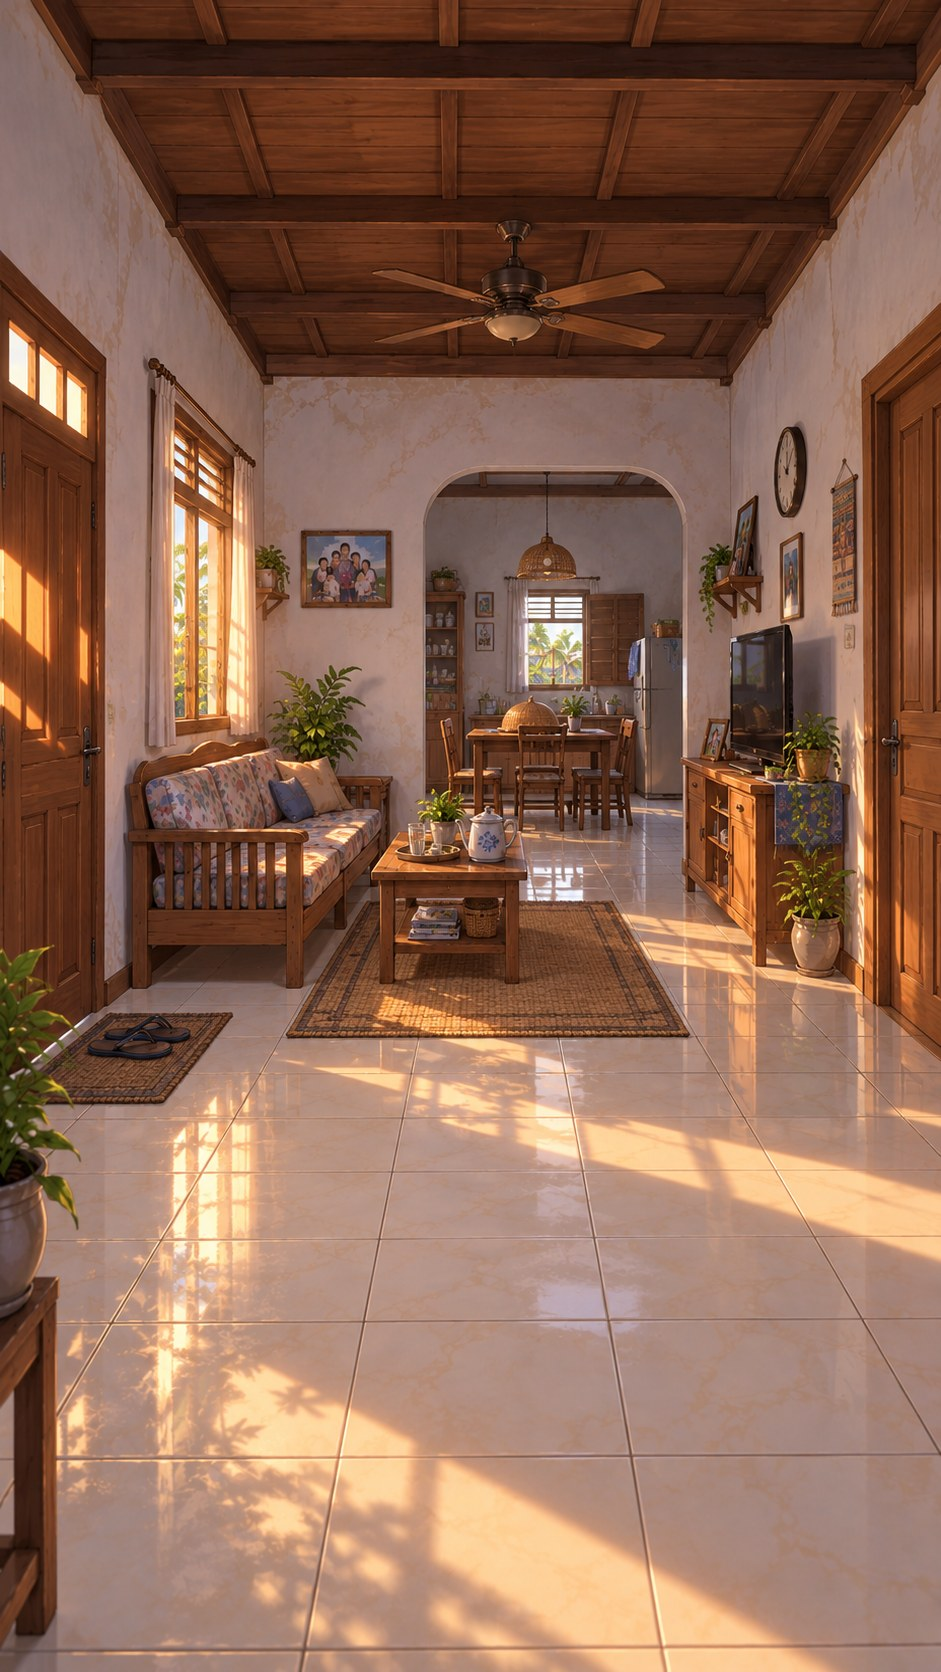
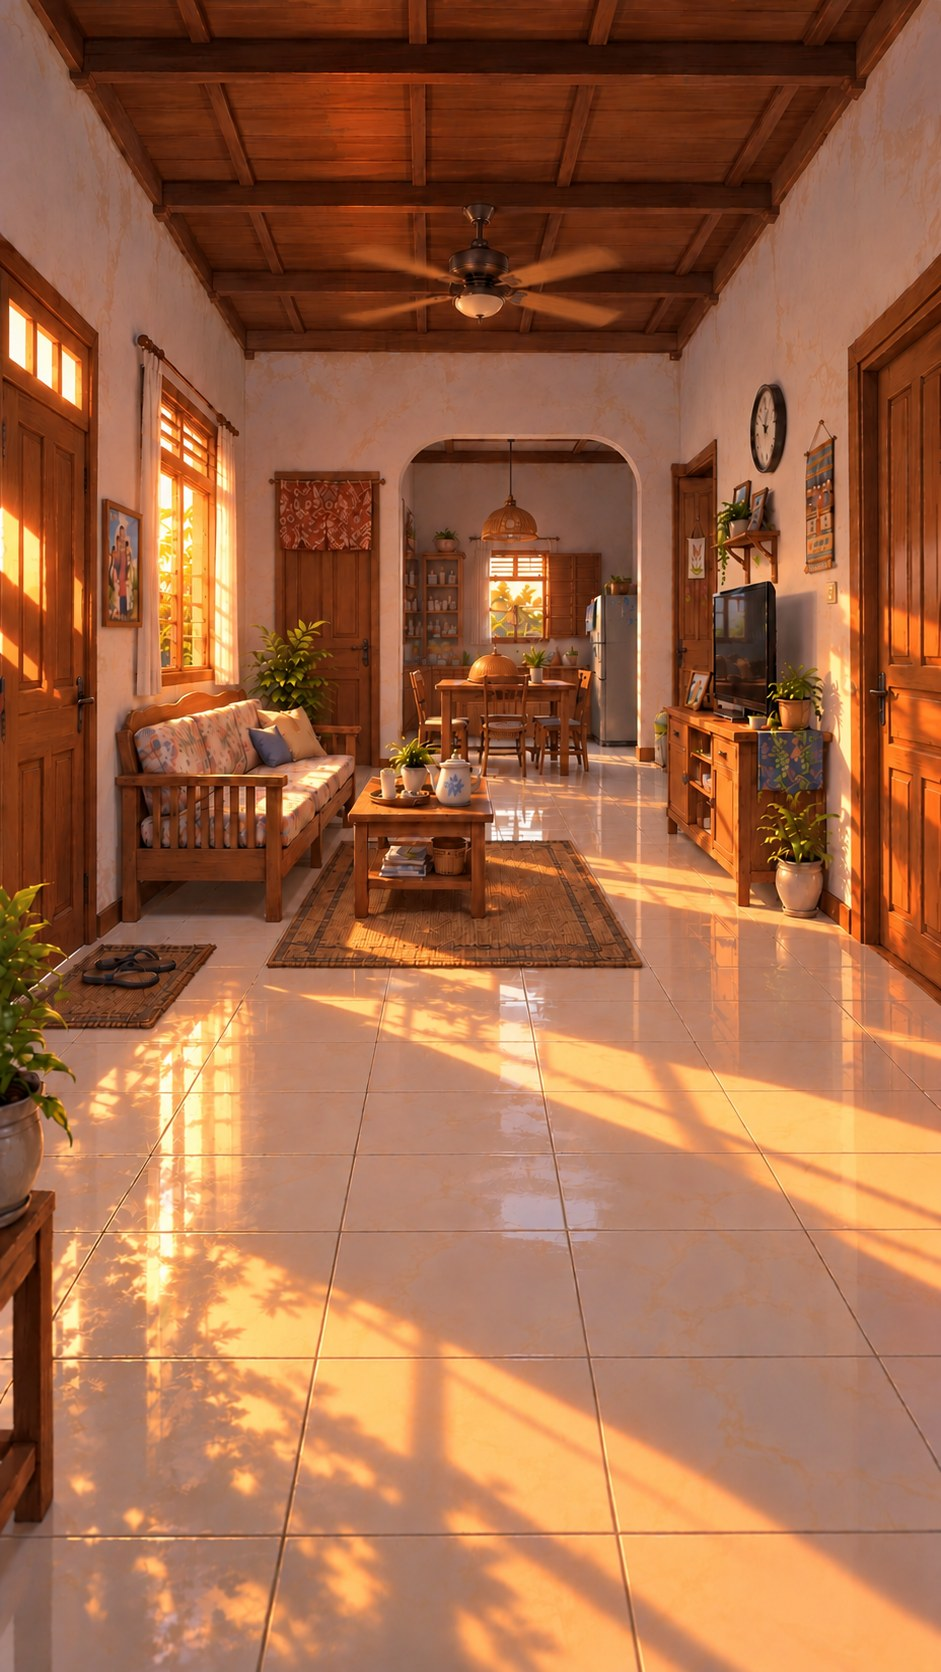
Rumah desa: ruang tengah baru (4 waktu + gambar dengan tokoh), kamar Ayah & Ibu, kamar Laras; PR & adegan Laras pindah ke kamarnya, celengan ke kamar Ayah & Ibu
Claude-Session: https://claude.ai/code/session_01MRhMC5f5cmwfwJoAVQABm5

diff --git a/docs/PROGRES.md b/docs/PROGRES.md
@@ -10,6 +10,7 @@
 
 | Tanggal | Build | Yang dikerjakan |
 |---|---|---|
+| 21 Okt 2026 | 60+ | **Rumah desa: ruang tengah baru + 2 kamar baru** (keputusan pemilik). Denah: dinding kiri = dinding luar (pintu depan, jendela, foto keluarga), pintu **kamar Ayah & Ibu** di dinding belakang kiri lengkungan, ruang makan hanya selebar lengkungan, pintu **kamar Laras** & kamarmu di dinding kanan. Ruang tengah punya 4 versi waktu (gambar dasar = sore, + pagi/siang/malam) dan gambar dengan tokoh: sore Ayah, malam Ibu & Laras, malam Ibu sendiri (Laras dihapus dari gambar malam). Lokasi baru `kamar_ayah_ibu` & `kamar_laras`. Laras mengerjakan PR di kamarnya (14:00–16:00) dan menggambar sebelum tidur (20:30–21:00); kegiatan *Membantu PR Laras*, adegan *Laras diejek* & *PR matematika* (Bab 2) dan *kotak sepatu* (Bab 3 desa) pindah ke kamar Laras; adegan *celengan bambu* (Bab 3 kota) pindah ke kamar Ayah & Ibu. Posisi pintu/benda/orang ruang tengah disesuaikan dengan gambar baru |
 | 20 Okt 2026 | 59 | **Sisa putih di celah tangan dihapus** (masukan pemilik): celah latar yang terkurung antara lengan & badan / sela kaki / sela rambut tidak terhapus oleh `hapus_latar.py` (hanya membuang putih yang tersambung ke tepi). Alat baru `tools/hapus_celah.py` membuang putih rata ≥ 247 (latar AI) tanpa menyentuh baju/kerudung putih yang berbayang (± 235–242), tepi dihaluskan. 44 file diperbaiki: Ayah, Bayu, Dimas, Sekar, Alya, tokoh utama perempuan, Pak Karta, Pak Usman, Bu Ratmi, Bu Sum, Bu Tini, Kak Tiara, Pak Kades, Mantri, Dino (semua ekspresi). Jalankan `python3 tools/hapus_celah.py --cek app/src/main/assets/karakter/*` setelah menambah gambar tokoh baru |
 | 20 Okt 2026 | 58 | **Gambar baru dari pemilik terpasang:** 23 tokoh (desa: Pak Karta, Pak Usman, Mbak Yati, Pak Haji, Bu Wati, Kak Wulan, Bu Narti, Pak RT, Pak Kades, Mantri Joko, Rani, Dodi, Dino · kota: Bu Ratmi, Bu Hartini, Mas Bram, Bu Rahma, Reno, Kak Tiara, Bu Sum, Pak Hendra, Bu Tini, Bang Raka) — latar putih dihapus (`hapus_latar.py`), 30 ekspresi diselaraskan ke gambar biasa (`selaraskan_ekspresi.py`, kini juga menerima gambar biasa .webp), foto profil `_foto.jpg` 512×512 dibuat otomatis; gambar biasa tokoh baru disimpan WebP agar APK tidak membengkak. Latar baru (kosong, tanpa tokoh): **dermaga** pagi/siang/sore (+ malam yang sudah ada), **lapangan**, **Pasar Lama**, **Pelabuhan**; posisi pintu/benda/orang di lapangan, dermaga, pelabuhan disesuaikan dengan gambar baru |
 | 19 Okt 2026 | 56 | **Cerita Bab 1–4 dibuat ulang sesuai rancangan baru** (CERITA.md 6a–6d, ALUR_BAB4.md, ANALISIS_CERITA.md 5b). (1) **Bab 1 "Lulus SMP" = 3 hari** (Senin 1 – Rabu 3 Juni): pertanyaan Ibu dijawab sementara (`condong` kota/desa/ragu), ambil SKL di SMP (Bu Narti, Rani, Dodi, perkenalan Sekar), wawancara gudang Darto (kerja sementara / bilang kerja tetap) atau perahu Pak Karta. (2) **Bab 2 "Mencari Pegangan"** (4–26 Juni, semua pemain): hari pertama kerja, gaji pertama, tagihan listrik, bisik-bisik hutang perahu, rapor Laras, minggu keputusan (Laras, nasihat Ayah, Bayu, berkas Ibu), **keputusan final Jumat 26 Juni** → jalur kota/desa, Sekar ikut/tinggal/satu kereta. (3) **Bab 3 Kota "Pamit"** (27 Juni – 11 Juli): pamit ke Darto (reaksi sesuai janji wawancara), daftar ulang bersama Ibu, celengan bambu 🔀, pasar malam, 10 adegan pamitan (Laras minta maaf & kaus paus, pisau lipat Ayah + janji kirim uang / langit merah, Ibu menangis di dapur, Bayu titip Sekar, foto Raka dari Darto, formulir & Bu Wati bersama Sekar, kantong perca Sekar, doa Pak Haji), kotak sepatu Laras + janji layangan/telepon, pesan misterius di dermaga, stasiun. (4) **Bab 3 Desa "Musim Ombak Tinggi"** mulai 27 Juni (pasar malam, seragam Laras, Paket C bersama Kak Wulan) + lembur Darto. (5) **Bab 4 Kota "Kota yang Tak Pernah Tidur"** (11 Juli – 17 Agustus): survei 3 kos & menawar, Ibu jatuh lewat telepon, MPLS, video call keluarga, album Nadia, stasiun + Misi Raka, tagihan Darto & kiriman −Rp150.000, patungan mercusuar, **malam badai dari jauh**, rapat keluarga, final Bayu (pulang/tetap), 17 Agustus, pesan sahabat & senter tiga kedip; **21 adegan waktu bebas** (Reno, ketua kelas, kerja kurir/cuci piring/Bu Sum/toko buku, Dimas digusur, Nadia & ibunya, kejadian kos, Sekar di asrama, bengkel Bang Raka, mural "A.", lomba). Lokasi baru **Pasar Lama** & **Pelabuhan**. (6) **Bab 4 Desa** ditambah: Paket C, foto Raka di Sosmed, video call Sekar, mata Bu Wati, benang merah ketiga ibu, menutupi kerja Bayu. (7) **14 perbaikan** (5b): libur Laras, SKL (gudang tanpa berkas), Si Belang, Sosmed Bayu/Sekar bersyarat, Sekar tanpa kerudung, kerja terkunci usia + kerja kecil kota, syarat mercusuar kota, kiriman dikurangi, pesan 17 Agustus satu versi, tutorial telepon, isyarat Darto & keluarga sahabat. (8) Mesin: `@telepon`, syarat `||`, `libur`/`lokasi_libur`, NPC baru. (9) Tes: alur waktu jalur kota (biasa, dari perahu, tetap di kota, pulang saat badai & final), desa, desa-perahu; jumlah adegan per bab; pemeriksa naskah mengecek benda ↔ lokasi aktivitas |
